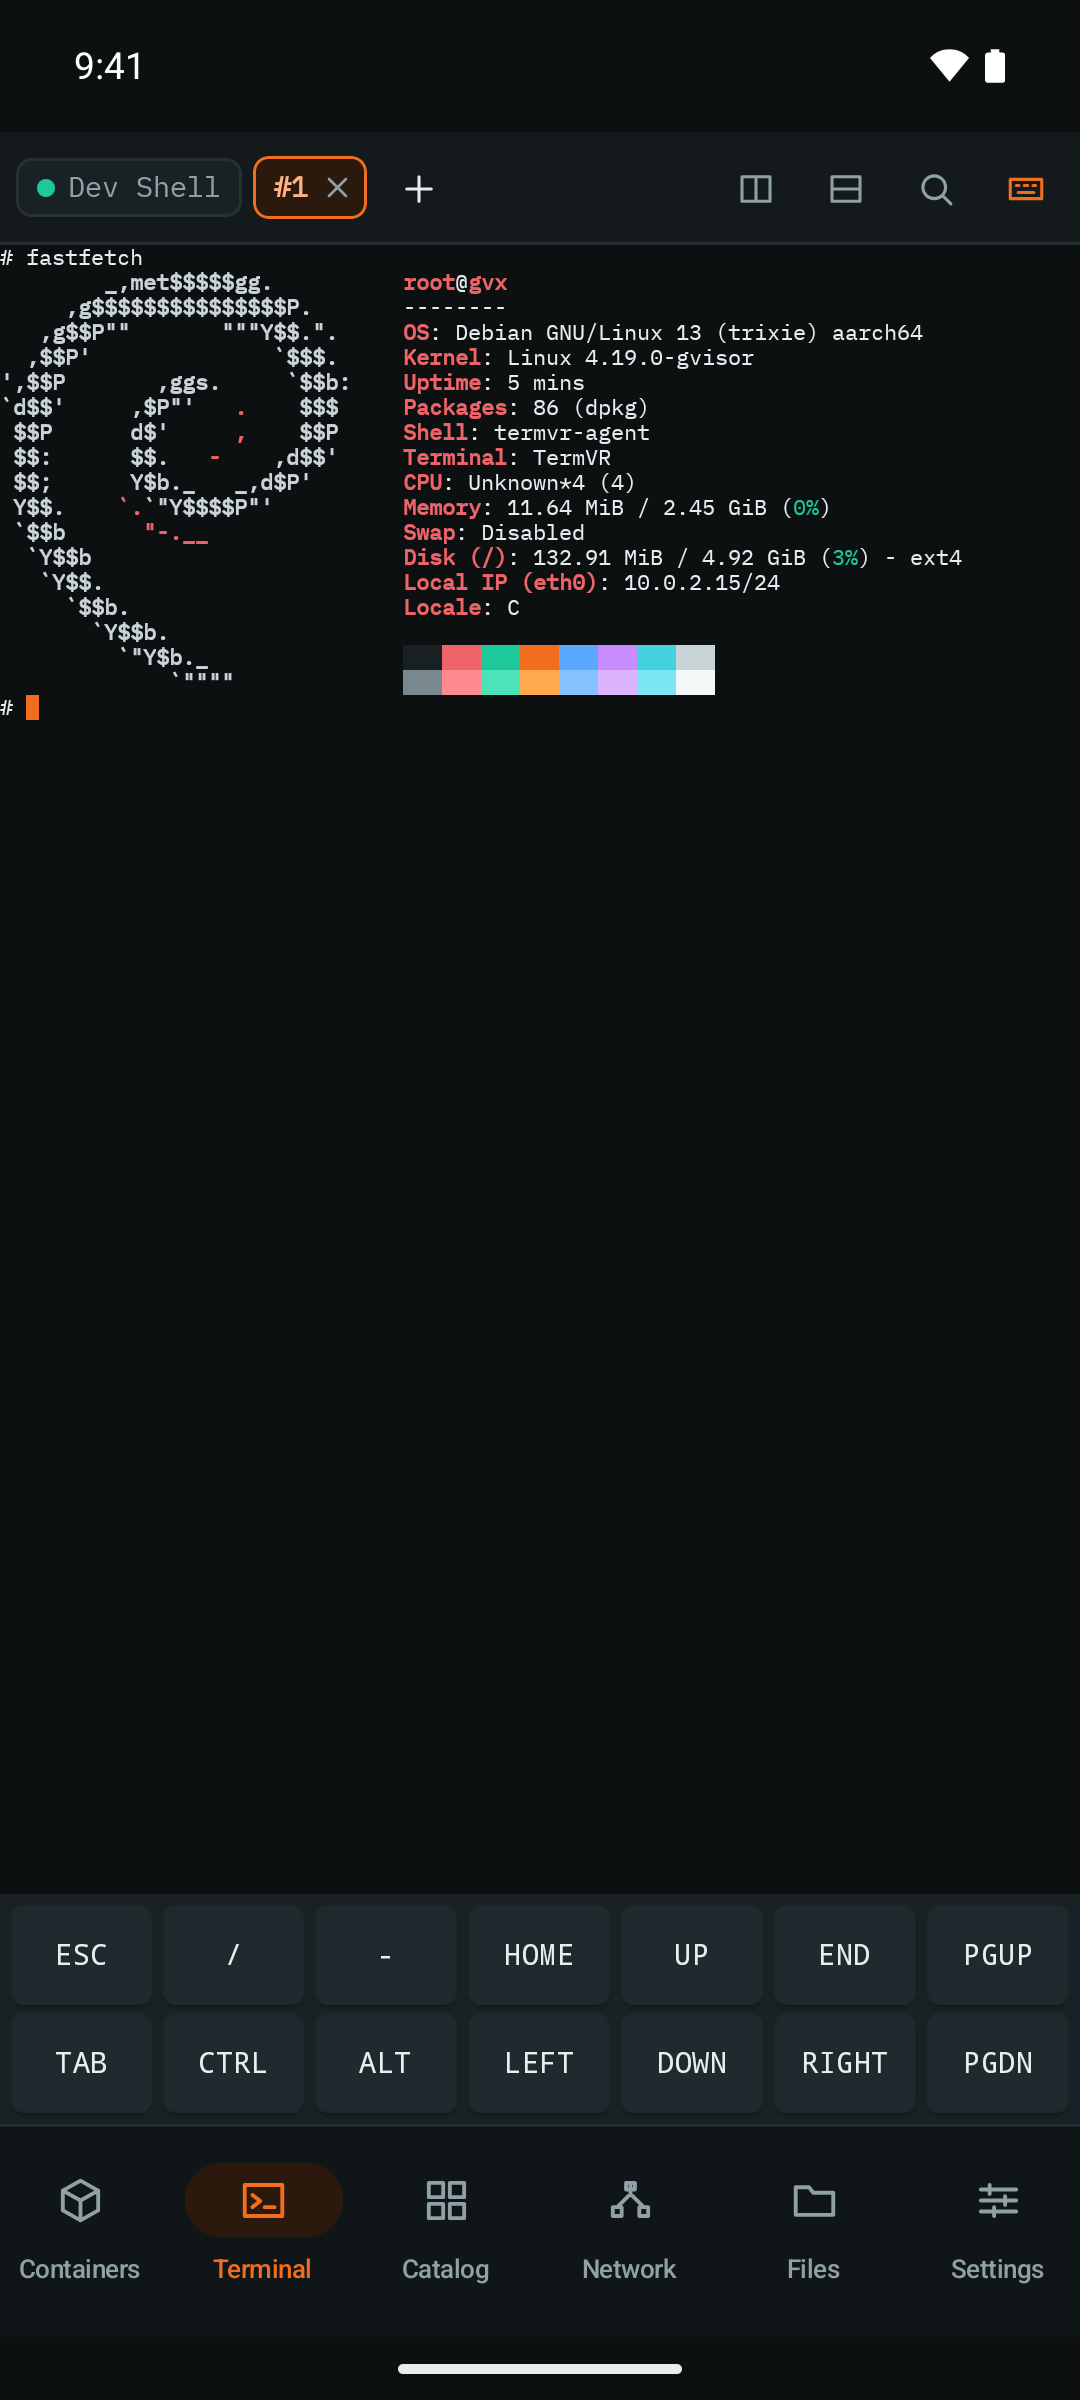
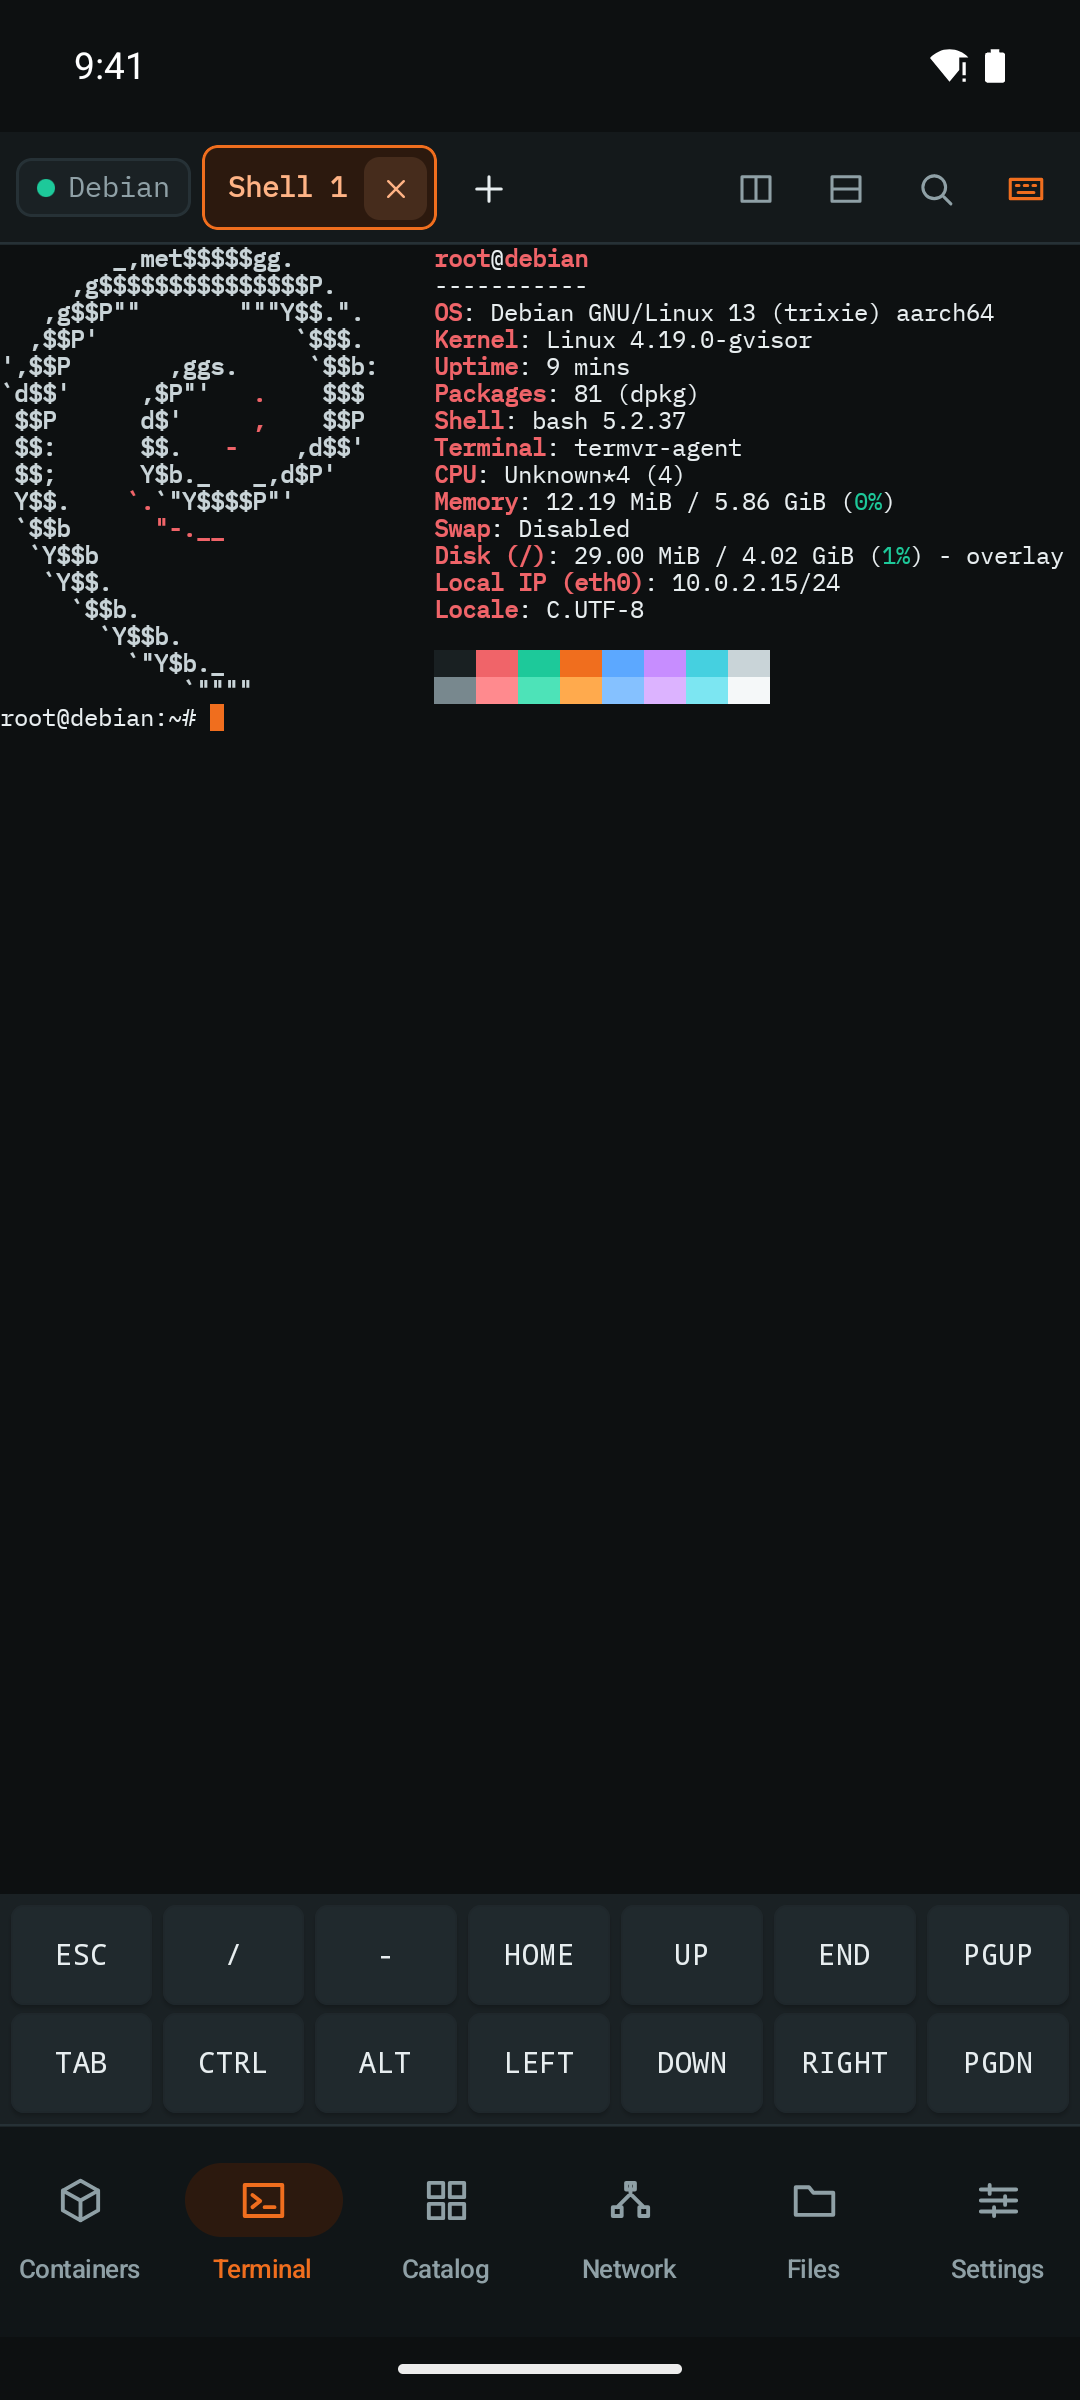
chore(release): bump TermVR and gvx to v0.16.10012026110900
Sync TermVR version manifests, CheckpointController.DEFAULT_GVX_VERSION, and bundled license notices to gvx v0.16.10012026110900 (fd2571c34f87ecd3768adf0f611b6732c16e7f9a).

Add v0.16.10012026110900 release notes, CHANGELOG entry, Fastlane 301600010 changelog, and updated gallery terminal screenshot.

diff --git a/core/runtime-gvx/src/main/kotlin/dev/gfire/termvr/core/runtime/CheckpointController.kt b/core/runtime-gvx/src/main/kotlin/dev/gfire/termvr/core/runtime/CheckpointController.kt
@@ -420,7 +420,7 @@ class CheckpointController(
     }
 
     companion object {
-        const val DEFAULT_GVX_VERSION: String = "v0.16.10002026110900"
+        const val DEFAULT_GVX_VERSION: String = "v0.16.10012026110900"
         const val CONNECT_WRITE_TIMEOUT_MS: Int = 2_000
         const val CHECKPOINT_READ_TIMEOUT_MS: Int = 60_000
         const val FREE_SPACE_SAFETY_MULTIPLIER: Double = 1.2

diff --git a/docs/releases/v0.16.10012026110900.md b/docs/releases/v0.16.10012026110900.md
@@ -1,0 +1,75 @@
+# TermVR v0.16.10012026110900
+
+`TermVR` `v0.16.10012026110900` (`versionCode` `301600010`) upgrades the bundled `gvx` runtime to `v0.16.10012026110900` (`fd2571c34f87`). It updates terminal input handling, guest shell defaults, compact tab controls, checkpoint lifecycles, and nested container execution on 16 KB `arm64` kernels.
+
+## What changed
+
+This release pairs `gvx` kernel fixes (`#198`, `#201`, and `#202`) with terminal UI, multiplexer, and runtime supervisor improvements. Every section below summarizes the user-visible changes across terminal input, shell environments, lifecycle controls, and container recipes.
+
+### Special keys, IME chords, and ordered PTY writes
+
+Touch modifier keys and soft keyboards now dispatch control chords consistently across native and fallback VT backends. A single-thread FIFO writer preserves input byte order and ignores closed or exited panes.
+
+- Fixed `AuxiliaryKeyBar` modifier latch rendering so one-shot `CTRL` and `ALT` highlights clear immediately after a chord.
+- Flushed active IME composition buffers cleanly and encoded `CTRL` and `ALT` chords typed through soft keyboards.
+- Extended `libghostty-vt` and fallback key encoders to emit C0 control bytes for punctuation and shifted letters.
+- Serialized PTY writes on `termvr-pty-writer` so fast soft-keyboard input preserves character order without racing closed streams.
+
+### UTF-8 locale, bash shells, btop exit, and naming
+
+Guest containers now open interactive `bash` shells with a UTF-8 locale when `bash` exists in the image. `gvx` `v0.16.10012026110900` also fixes non-canonical pseudo-terminal reads so full-screen tools exit without hanging.
+
+- Set `LANG=C.UTF-8` across guest sessions and selected `/bin/bash` before `/bin/sh` when images include `bash`.
+- Fixed `devpts` POSIX `VMIN` and `VTIME` replica reads in `gvx` (`#198`), allowing `btop` to exit cleanly on `q`.
+- Updated default container and tab labels from `Dev Shell` and `#1` to `Debian` and `Shell 1`.
+- Bypassed outbound proxy environment variables for loopback (`127.0.0.0/8`, `::1`) and sandbox subnet (`10.0.2.0/24`) destinations inside `termvr-agent`.
+
+### Compact smartphone tab close confirmation
+
+Narrow phone screens now prevent accidental tab closure next to the new-tab button. Exited tabs still close in one tap without extra confirmation prompts.
+
+- Enlarged the tab close touch target and hid inline `×` icons on unselected tabs on compact widths.
+- Added a `Close tab?` confirmation dialog when closing a live tab or split pane on compact screens.
+- Closed tabs whose shell already exited immediately without opening the confirmation dialog.
+
+### Pause, resume, and checkpoint lifecycle hardening
+
+Activity transitions, background restores, and snapshot cleanup now keep GL surfaces, mux streams, and `ext4lite` volumes synchronized. `gvx` `v0.16.10012026110900` (`#202`) also retains guest memory mappings until platform teardown finishes and validates task state before saving snapshots.
+
+- Synchronized OpenGL ES 3.0 render thread teardown, `NativeVtSession` locks, per-tab surface controllers, and foreground service resume flows.
+- Marked consumed `active-slot.json` checkpoints superseded after restore or explicit container stop so subsequent cold starts boot cleanly.
+- Updated `CheckpointController.DEFAULT_GVX_VERSION` and `scripts/sync-gvx-version.sh` so runtime upgrades supersede snapshots written by older `gvx` builds.
+
+### Nested Docker and Kubernetes on 16 KB arm64 hosts
+
+`gvx` `v0.16.10012026110900` (`#201`) repairs 16 KB `arm64` sub-block page unmapping when ELF `.relr.dyn` relocations span 4 KB sub-pages. Both `Docker Engine (DinD)` on `overlay2` and `Kubernetes Single-Node (k3s)` now run unmodified `nginx:alpine` workloads on 16 KB `arm64` kernels.
+
+- Fixed `systrap` `subBlockLayer.unmap` generation tracking in `gvx` (`#201`) to eliminate zero-read `SIGILL` crashes in Alpine musl binaries.
+- Verified `docker:dind` (`overlay2` on `ext4lite`) and single-node `k3s` pod and `ClusterIP` service traffic on Android 16 16 KB `arm64`.
+
+## Downloads
+
+Each release ships architecture-specific APKs signed with Android APK Signature Scheme v2 and v3. One `arm64-v8a` package supports both 4 KB and 16 KB page-size Android 12+ devices.
+
+| Artifact | Target devices | Notes |
+| :--- | :--- | :--- |
+| `TermVR-v0.16.10012026110900-arm64-v8a.apk` | Android 12+ (`arm64-v8a`) phones and tablets | Unified binary for 4 KB and 16 KB page sizes. |
+| `TermVR-v0.16.10012026110900-x86_64.apk` | Android 12+ (`x86_64`) emulators and devices | Matches `x86_64` host kernels and 16 KB emulator images. |
+| `SHA256SUMS` | Checksum manifest | Lists SHA-256 digests for both release APKs. |
+
+## Reproducible build and verification
+
+GitHub Actions builds every release APK offline from pinned commits in `scripts/source-lock.json` and verifies clean-room reproducibility before signing. All shared libraries align `PT_LOAD` segments to at least `16384` bytes (`16 KB`), and GitHub attaches `SLSA` v1.0 Build Level 2 provenance.
+
+Run these commands to verify downloaded APKs and their v2 and v3 signatures.
+
+```bash
+sha256sum -c SHA256SUMS
+apksigner verify --verbose --print-certs TermVR-v0.16.10012026110900-arm64-v8a.apk
+```
+
+Run `./scripts/verify-reproducible-apk.sh` to verify F-Droid build reproducibility from tag `v0.16.10012026110900`.
+
+```bash
+./scripts/verify-reproducible-apk.sh --signed-apk TermVR-v0.16.10012026110900-arm64-v8a.apk --abi arm64-v8a
+```

diff --git a/docs/designs/0001-termvr-system-design.md b/docs/designs/0001-termvr-system-design.md
@@ -359,7 +359,7 @@ This section links authoritative upstream specifications and records post-`v1.0`
 
 Four upstream specifications define the external contracts consumed by `TermVR`.
 
-- `gvx` User-Space Kernel and CLI Reference: `https://github.com/gfire-sigs/gvx` (`v0.15.10002026110900`)
+- `gvx` User-Space Kernel and CLI Reference: `https://github.com/gfire-sigs/gvx` (`v0.16.10012026110900`)
 - `Ghostty` and `libghostty-vt` C API: `https://github.com/ghostty-org/ghostty` (`vt-1.0.1`)
 - Elephant-Goldfish Design Model (`EGM`): `https://github.com/google/elephant-goldfish-model`
 - F-Droid Reproducible Builds Guide: `https://f-droid.org/docs/Reproducible_Builds/`
@@ -1042,7 +1042,7 @@ Four packaging controls guarantee identical unsigned APK bytes across independen
 - **`versionName` mapping**: `versionName` equals `<major>.<minor>.<patchStamp>` when `app_revision` is `0`, or `<major>.<minor>.<patchStamp>.<app_revision>` for app-only fixes on the same `gvx` commit.
 - **`versionCode` monotonic formula**: For `v<major>.<minor>.1<CCC><YYYYMMDD><SS>` tags, `sync-gvx-version.sh` computes `(major + 3) * 100_000_000 + minor * 100_000 + ccc * 10 + app_revision` (`301600000` for `v0.16.10002026110900`, `app_revision = 0`), staying monotonic above legacy `261109001` within signed 32-bit `Int`.
 - **Standard SemVer fallback**: When a `gvx` tag lacks a `1<CCC><YYYYMMDD><SS>` suffix, `sync-gvx-version.sh` falls back to embedded or commit-date `YYMMDDGGR` formatting (`GG` from `patch % 100`).
-- **Single-command sync and verification**: `./scripts/sync-gvx-version.sh --check [--expect-tag v...]` validates parity across `scripts/source-lock.json`, `gradle/libs.versions.toml`, `app/build.gradle.kts`, `fdroid/dev.gfire.termvr.yml`, and Fastlane changelogs.
+- **Single-command sync and verification**: `./scripts/sync-gvx-version.sh --check [--expect-tag v...]` validates parity across `scripts/source-lock.json`, `gradle/libs.versions.toml`, `app/build.gradle.kts`, `fdroid/dev.gfire.termvr.yml`, `CheckpointController.kt`, license notices, and Fastlane changelogs.
 - **Automated upstream tracking**: `--gvx-tag <tag> --gvx-commit <sha> [--app-rev 0..9]` and `--fetch-latest [--repo <url>]` update all version manifests atomically and seed missing Fastlane changelog stubs. `.github/workflows/sync-gvx.yml` runs `--fetch-latest` on schedule and opens a pull request when upstream `gvx` advances.
 
 ### 18.5 Clean-Room Verification Procedure (Procedural Module)

diff --git a/CHANGELOG.md b/CHANGELOG.md
@@ -6,7 +6,30 @@ This file records notable user-visible, build, and release changes across `TermV
 
 ## [Unreleased]
 
-This section tracks changes staged on `main` after `0.16.10002026110900`.
+This section tracks changes staged on `main` after `0.16.10012026110900`.
+
+---
+
+## [0.16.10012026110900]
+
+This release (`versionCode` `301600010`) upgrades the bundled `gvx` runtime to `v0.16.10012026110900` (`fd2571c34f87`). It improves terminal key chords, guest shell defaults, compact tab controls, checkpoint lifecycles, and nested containers on 16 KB `arm64` hosts.
+
+### Terminal input, shells, and compact tab controls
+
+Soft-keyboard chords, guest shell defaults, and narrow-screen tab bars now behave consistently across distributions and terminal apps. Exited tabs still close in one tap while live tabs guard against accidental taps.
+
+- Fixed `AuxiliaryKeyBar` one-shot modifier highlight updates, IME composition `CTRL`/`ALT` chords, C0 punctuation encoding, and FIFO PTY write ordering.
+- Set `LANG=C.UTF-8`, preferred `/bin/bash` over `/bin/sh` when installed, bypassed guest-local subnets in `termvr-agent` proxy settings, and renamed defaults to `Debian` and `Shell 1`.
+- Fixed `btop` `'q'` exit hangs via `gvx` `devpts` non-canonical `VMIN` and `VTIME` replica reads (`gvx#198`).
+- Hid inline close icons on unselected compact tabs and added a `Close tab?` confirmation modal for live tabs and split panes.
+
+### Lifecycle hardening and 16 KB nested containers
+
+Surface recreation, checkpoint consumption, and 16 KB `arm64` memory management now handle repeated pause, resume, stop, and nested container workloads cleanly. `scripts/sync-gvx-version.sh` also keeps `CheckpointController.DEFAULT_GVX_VERSION` and bundled license notices synchronized.
+
+- Hardened OpenGL ES 3.0 thread teardown, `NativeVtSession` locking, per-tab surface controllers, and foreground service resume handling.
+- Marked consumed `active-slot.json` checkpoints superseded on restore and container stop so later cold starts do not reuse stale snapshots.
+- Upgraded `gvx` (`gvx#201` and `gvx#202`) to fix 16 KB `arm64` split `.relr.dyn` sub-block unmapping for `Docker (DinD)` and `k3s` `nginx:alpine` workloads and retain guest memory through teardown.
 
 ---
 

diff --git a/README.md b/README.md
@@ -18,7 +18,7 @@
 <p align="center">
   <strong><a href="https://github.com/gfire-sigs/TermVR/releases/latest">Download Latest APK</a></strong>
   &nbsp;&middot;&nbsp;
-  <strong><a href="docs/releases/v0.16.10002026110900.md">Release Notes</a></strong>
+  <strong><a href="docs/releases/v0.16.10012026110900.md">Release Notes</a></strong>
   &nbsp;&middot;&nbsp;
   <strong><a href="https://github.com/gfire-sigs/TermVR-Fonts">TermVR Mono NF</a></strong>
 </p>
